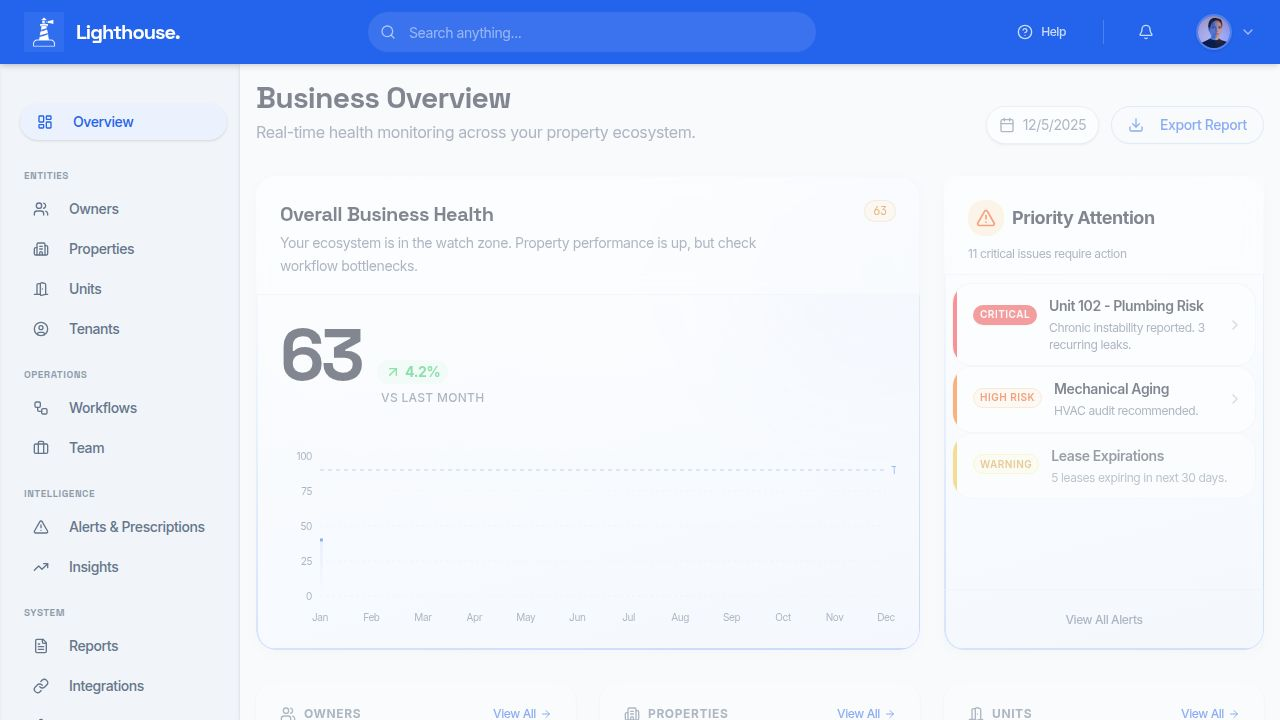
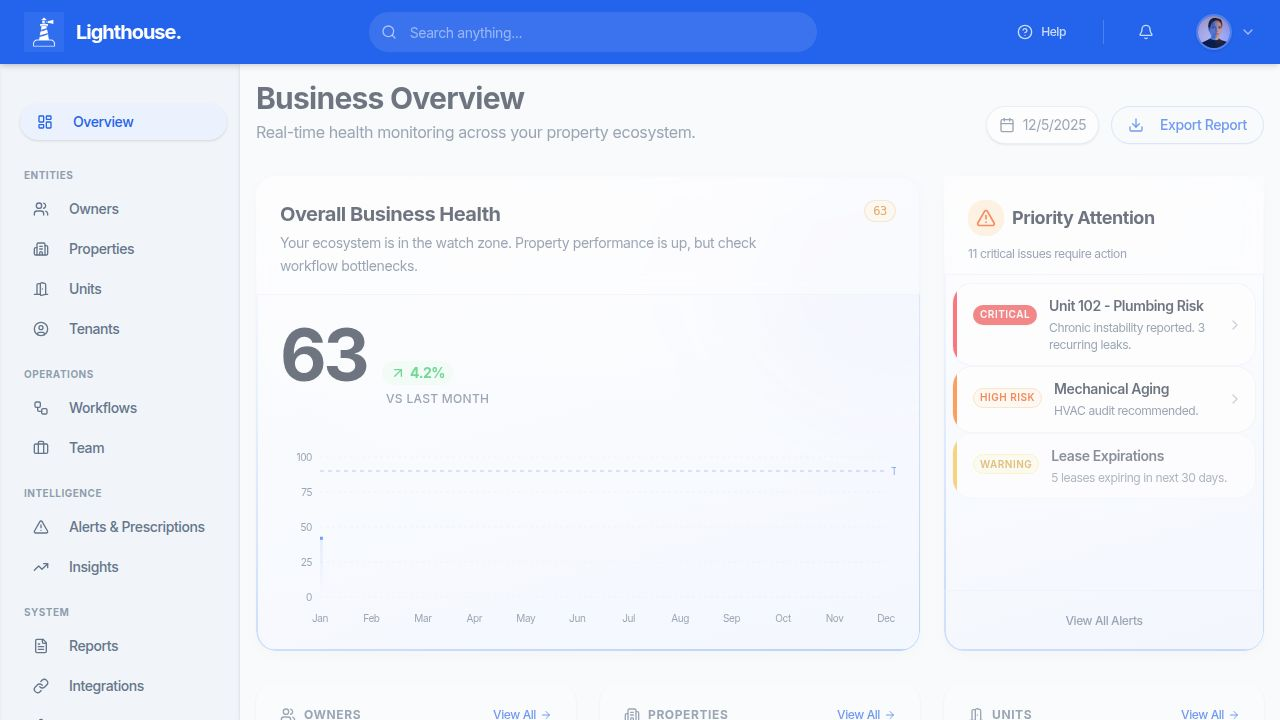
Update application fonts and colors to the Inter system
Integrates Inter font from Google Fonts, sets it as the default font family, and updates the typography scale and color system, including a new navy color for headings.

Replit-Commit-Author: Agent
Replit-Commit-Session-Id: 7de3d50b-fd31-48e8-9e9b-3a267ac20d08
Replit-Commit-Checkpoint-Type: full_checkpoint
Replit-Commit-Event-Id: 81fa8a08-e13e-4ad8-891a-b28215655df9
Replit-Commit-Screenshot-Url: https://storage.googleapis.com/screenshot-production-us-central1/65e48390-e568-4524-a78e-c642c6230a67/7de3d50b-fd31-48e8-9e9b-3a267ac20d08/spDGAlq
Replit-Helium-Checkpoint-Created: true

diff --git a/client/src/index.css b/client/src/index.css
@@ -60,8 +60,8 @@
   --color-health-critical: hsl(var(--health-critical));
   --color-health-critical-bg: hsl(var(--health-critical-bg));
 
-  --font-sans: 'Inter', sans-serif;
-  --font-display: 'Space Grotesk', sans-serif;
+  --font-sans: 'Inter', -apple-system, BlinkMacSystemFont, 'Segoe UI', sans-serif;
+  --font-display: 'Inter', -apple-system, BlinkMacSystemFont, 'Segoe UI', sans-serif;
   --font-mono: 'JetBrains Mono', monospace;
   
   --radius: 1rem;
@@ -71,14 +71,14 @@
 :root {
   /* Main Background: Very light cool gray */
   --background: 210 40% 98%; 
-  --foreground: 222 47% 11%;
+  --foreground: 217 33% 17%; /* #1E293B */
 
   /* Cards: Pure white with subtle shadows */
   --card: 0 0% 100%;
-  --card-foreground: 222 47% 11%;
+  --card-foreground: 217 33% 17%; /* #1E293B */
 
   --popover: 0 0% 100%;
-  --popover-foreground: 222 47% 11%;
+  --popover-foreground: 217 33% 17%; /* #1E293B */
 
   /* Primary: Vibrant Professional Blue */
   --primary: 221 83% 53%; /* Blue 600-ish */
@@ -86,13 +86,13 @@
 
   /* Secondary: Subtle blue-gray for inactive states */
   --secondary: 210 40% 96.1%;
-  --secondary-foreground: 222 47% 11%;
+  --secondary-foreground: 217 33% 17%; /* #1E293B */
 
   --muted: 210 40% 96.1%;
-  --muted-foreground: 215 16% 47%;
+  --muted-foreground: 215 16% 47%; /* #64748B */
 
   --accent: 210 40% 96.1%;
-  --accent-foreground: 222 47% 11%;
+  --accent-foreground: 217 33% 17%; /* #1E293B */
 
   --destructive: 0 84.2% 60.2%;
   --destructive-foreground: 210 40% 98%;
@@ -106,13 +106,16 @@
 
   /* Sidebar: White, distinct from background */
   --sidebar: 0 0% 100%;
-  --sidebar-foreground: 215 16% 47%; /* Muted text by default */
+  --sidebar-foreground: 215 16% 47%; /* #64748B */
   --sidebar-primary: 221 83% 53%; /* Active item text */
   --sidebar-primary-foreground: 0 0% 98%;
   --sidebar-accent: 221 83% 96%; /* Very light blue for active bg */
   --sidebar-accent-foreground: 221 83% 53%;
   --sidebar-border: 214 32% 91%;
   --sidebar-ring: 217.2 91.2% 59.8%;
+  
+  /* Navy for headings */
+  --navy: 210 73% 15%; /* #0A2540 */
 
   /* Health System Colors - Adjusted for vibrancy */
   --health-good: 142 71% 45%; /* Green */
@@ -161,10 +164,12 @@
   }
   body {
     @apply font-sans antialiased bg-background text-foreground tracking-tight;
+    -webkit-font-smoothing: antialiased;
+    -moz-osx-font-smoothing: grayscale;
   }
   
   h1, h2, h3, h4, h5, h6 {
-    @apply font-display tracking-tight;
+    @apply font-sans tracking-tight text-[hsl(var(--navy))];
   }
 }
 

diff --git a/client/index.html b/client/index.html
@@ -17,7 +17,7 @@
     <link rel="icon" type="image/png" href="/favicon.png" />
     <link rel="preconnect" href="https://fonts.googleapis.com">
     <link rel="preconnect" href="https://fonts.gstatic.com" crossorigin>
-    <link href="https://fonts.googleapis.com/css2?family=Inter:wght@300;400;500;600;700&family=JetBrains+Mono:wght@400;500;700&family=Space+Grotesk:wght@300;400;500;600;700&display=swap" rel="stylesheet">
+    <link href="https://fonts.googleapis.com/css2?family=Inter:wght@300;400;500;600;700&display=swap" rel="stylesheet">
   </head>
   <body>
     <div id="root"></div>
